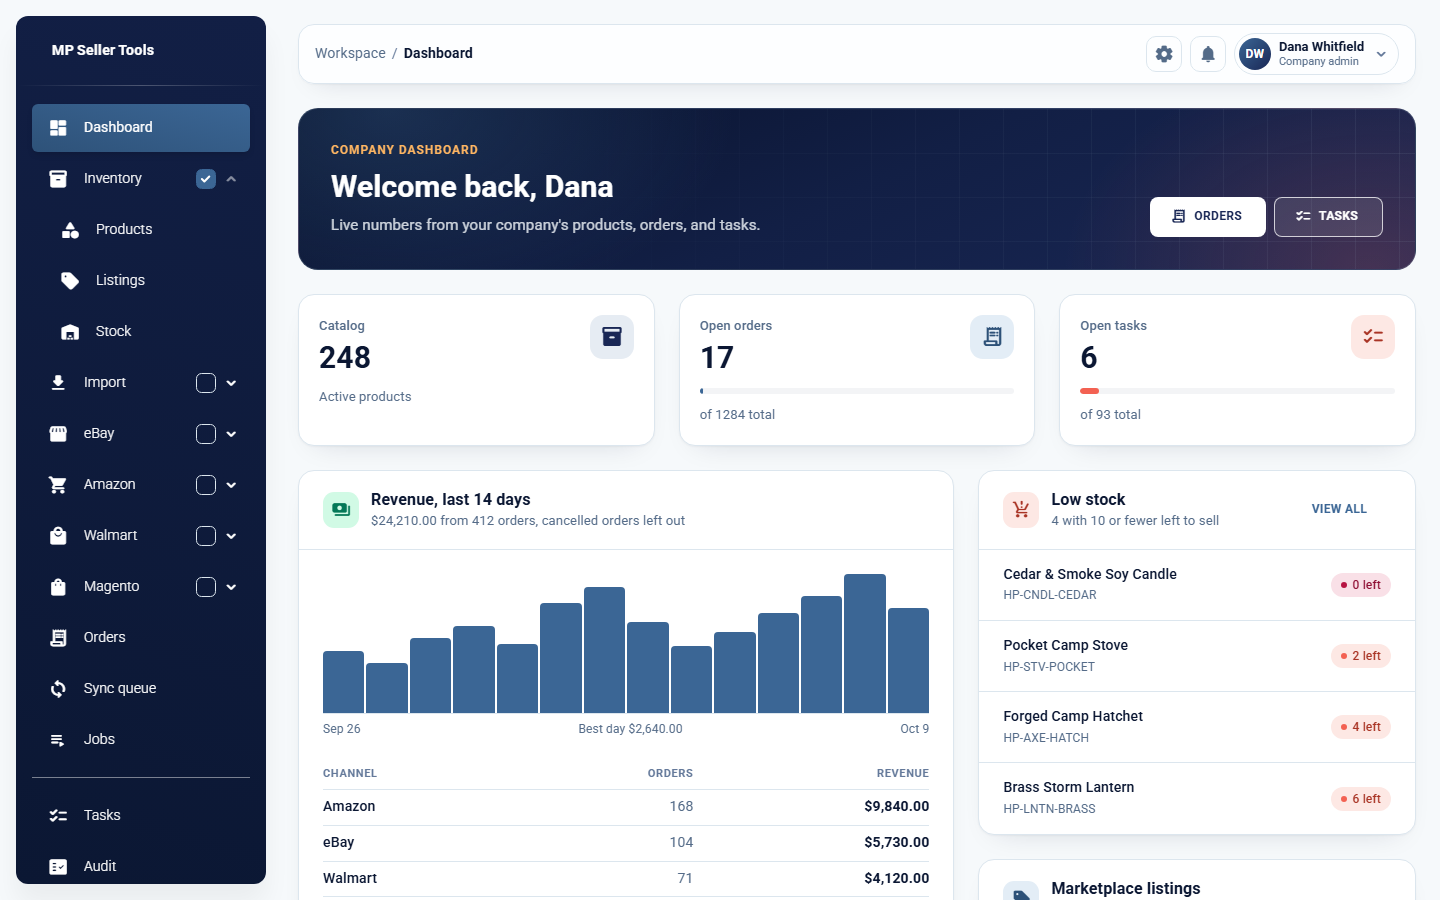
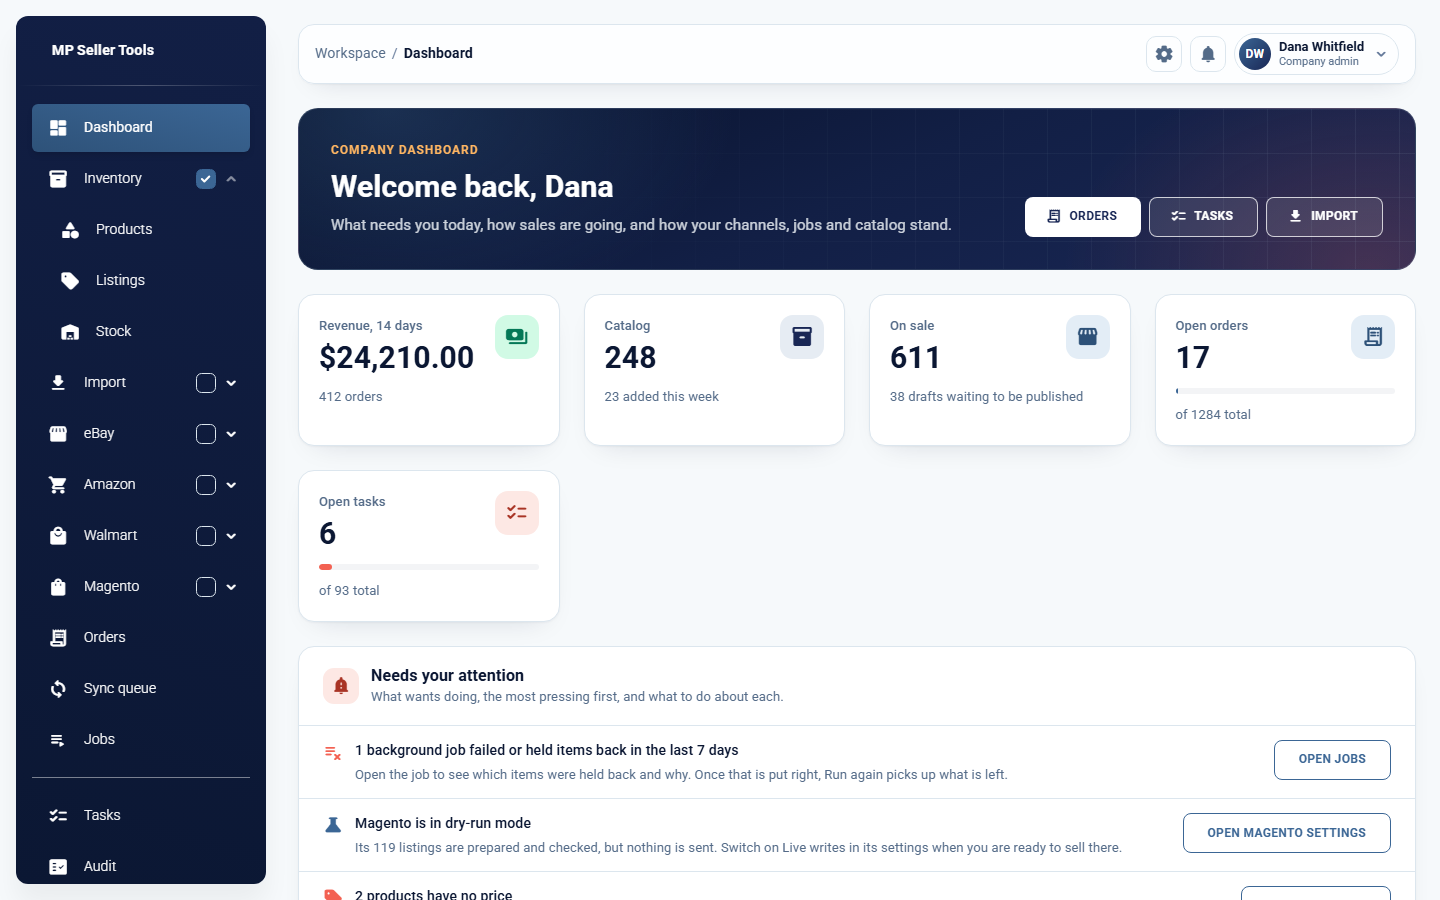
Retake the README's screenshots for the rebuilt dashboard
Claude-Session: https://claude.ai/code/session_017Z9oaeAKU1Vc2sRWSgbFEf

diff --git a/tests/e2e/screenshots/readme.spec.ts b/tests/e2e/screenshots/readme.spec.ts
@@ -34,11 +34,11 @@ async function mockApi(page: Page, me: Record<string, unknown>, gets: Mocks) {
   });
 }
 
-async function shoot(page: Page, name: string) {
+async function shoot(page: Page, name: string, fullPage = false) {
   await page.evaluate(() => document.fonts.ready);
   // Lets entrance transitions and the loading bar finish.
   await page.waitForTimeout(600);
-  await page.screenshot({ path: path.join(outDir, `${name}.png`), animations: "disabled" });
+  await page.screenshot({ path: path.join(outDir, `${name}.png`), animations: "disabled", fullPage });
 }
 
 // ---------------------------------------------------------------- platform
@@ -187,6 +187,22 @@ const dashboard = {
   openTaskCount: 6,
   totalOrderCount: 1284,
   totalTaskCount: 93,
+  // channel: 0 eBay, 1 Amazon, 2 Walmart, 4 Magento
+  workspace: {
+    channels: [
+      { id: "a-amazon", name: "Amazon", channel: 1, isEnabled: true, liveWrites: true, orderImport: true, stockSync: true, listings: 240, live: 231, drafts: 6, rejected: 3 },
+      { id: "a-ebay", name: "eBay", channel: 0, isEnabled: true, liveWrites: true, orderImport: true, stockSync: true, listings: 187, live: 179, drafts: 8, rejected: 0 },
+      { id: "a-walmart", name: "Walmart", channel: 2, isEnabled: true, liveWrites: true, orderImport: true, stockSync: false, listings: 142, live: 124, drafts: 18, rejected: 0 },
+      { id: "a-magento", name: "Magento", channel: 4, isEnabled: true, liveWrites: false, orderImport: false, stockSync: false, listings: 119, live: 77, drafts: 42, rejected: 0 },
+    ],
+    jobsRunning: 1,
+    jobsWaiting: 1,
+    jobsNeedingALook: 1,
+    jobDays: 7,
+    lastJobSummary: "187 listings checked; all can be published.",
+    catalog: { noPrice: 2, noStock: 9, noCategory: 14, noPictures: 5 },
+    productsAddedThisWeek: 23,
+  },
   sales: {
     days: 14,
     revenue: dailyRevenue.reduce((sum, value) => sum + value, 0),
@@ -356,6 +372,7 @@ test.describe("workspace", () => {
     await expect(page.getByText("Welcome back, Dana")).toBeVisible();
     await expect(page.getByText("ORD-10482")).toBeVisible();
     await shoot(page, "workspace-dashboard");
+    await shoot(page, "workspace-dashboard-full", true);
 
     await page.getByRole("button", { name: "Display settings" }).click();
     const settings = page.locator(".MuiDrawer-paper").filter({ hasText: "Display Settings" });

diff --git a/tests/e2e/playwright.screenshots.config.ts b/tests/e2e/playwright.screenshots.config.ts
@@ -8,6 +8,8 @@ const workspace = "http://localhost:5201";
 export default defineConfig({
   testDir: "./screenshots",
   workers: 1,
+  // A page's first load from a cold dev server can take longer than the default.
+  expect: { timeout: 20_000 },
   use: {
     viewport: { width: 1440, height: 900 },
     channel: process.env.PLAYWRIGHT_CHANNEL,

diff --git a/README.md b/README.md
@@ -14,7 +14,14 @@ own application process against its own SQL Server database.
 ![SQL Server](https://img.shields.io/badge/SQL%20Server-2025-CC2927)
 ![Playwright](https://img.shields.io/badge/tested%20with-Playwright-2EAD33)
 
-![The company workspace dashboard: revenue by day and by channel, open orders and tasks, low stock](docs/screenshots/workspace-dashboard.png)
+![The company workspace dashboard: revenue, catalog, listings on sale, open orders and tasks, and what needs attention](docs/screenshots/workspace-dashboard.png)
+
+<details>
+<summary>The whole dashboard</summary>
+
+![The full dashboard: what needs attention, revenue by day and channel, low stock, sales channels, background jobs, catalog readiness, recent orders and open tasks](docs/screenshots/workspace-dashboard-full.png)
+
+</details>
 
 ## Features
 
@@ -40,8 +47,9 @@ For a company's administrators and employees.
   background with progress.
 - **Magento** — connection test, the store's categories mapped to yours, and
   removal of a store's products by SKU prefix.
-- **Dashboard** — revenue by day and by channel, listing states, low stock and
-  anything that needs attention.
+- **Dashboard** — what needs doing first, then revenue by day and by channel,
+  each sales channel's listings, background jobs, catalog readiness and low
+  stock.
 - **Users** — invitations, roles, blocking, password resets, bulk actions,
   activity and an audit log.
 
@@ -58,7 +66,8 @@ For the platform administrator.
 ### Both
 
 - Named themes with light and dark mode, saved to each user's profile.
-- A notification history in the top bar.
+- A notification history in the top bar, where a standing problem stays in red
+  until it is resolved and a finished background job is announced.
 - HTTPS only, HttpOnly + Secure + SameSite=Strict cookies, antiforgery tokens,
   account lockout, and marketplace credentials encrypted at rest.
 
